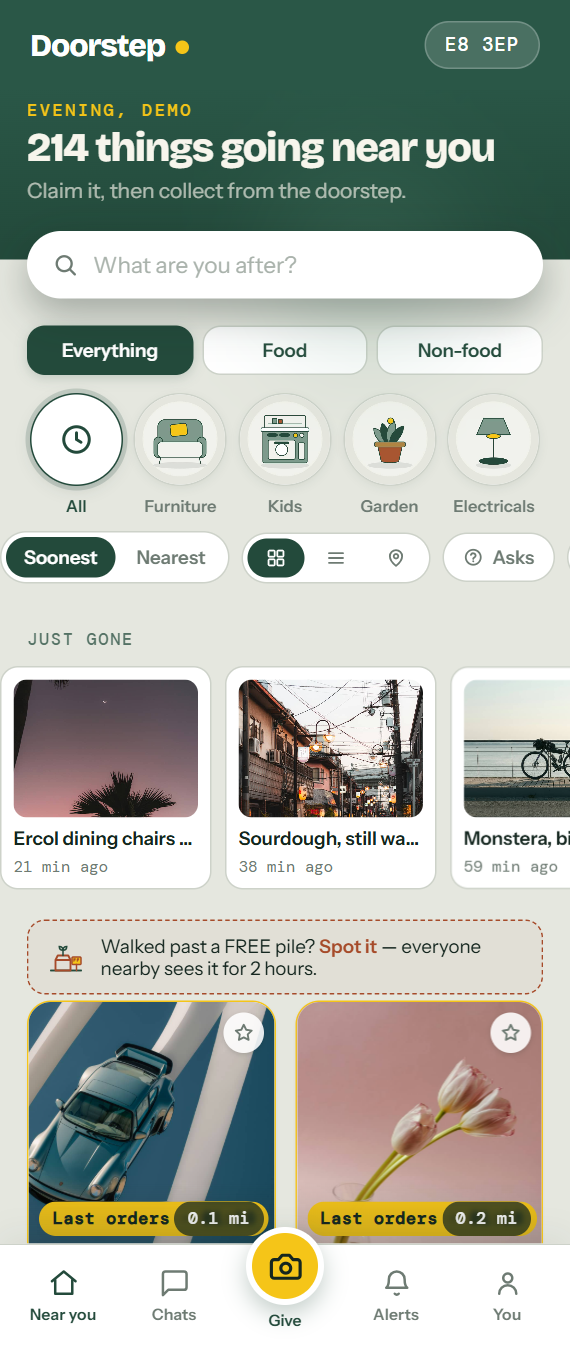
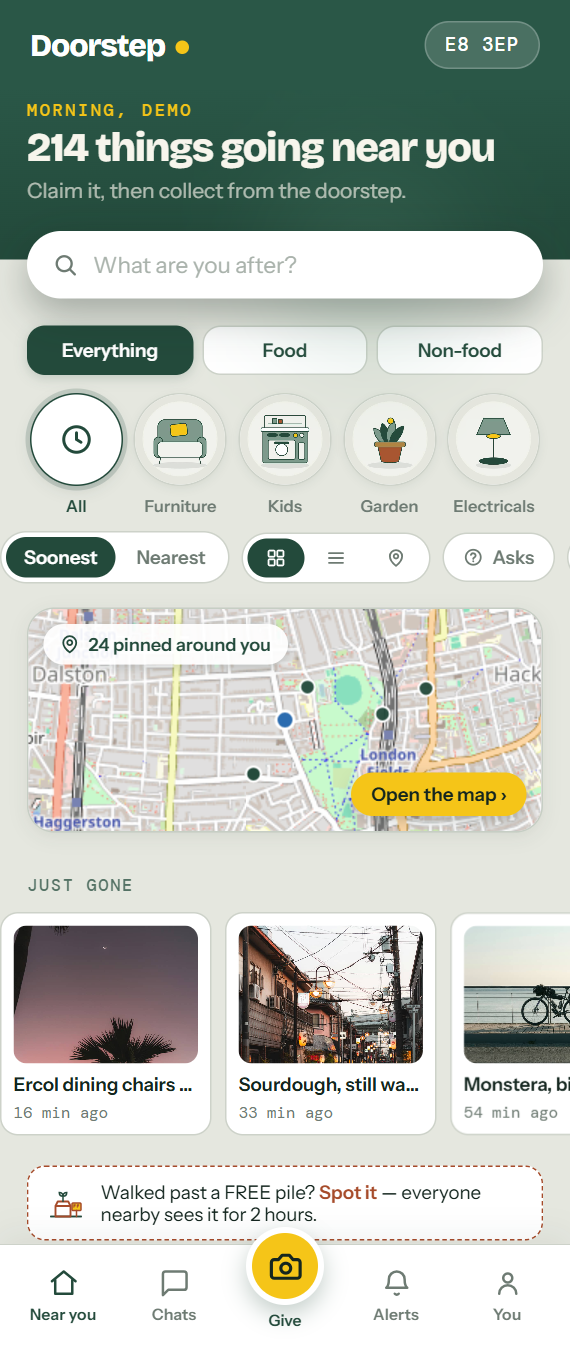
The map returns as a postcard, and the profile finds its colours
Messages leaves the profile — it lives on the bottom bar now, and a
second door to the same room only confuses the house. The remaining rows
each wear their own colour so the eye finds a destination before the
words are read: green for your things, rose for wishing, gold for the
radar, blue for the reckoning.

And the front page gets the neighbourhood back: a postcard of the real
map — live tiles, live pins, green for offers, brick for asks, blue for
you — with its hands tied. No panning, no zooming, no pointer at all; it
scrolls like a picture and opens like a door, with the pin count riding
one corner and "Open the map" in signal yellow riding the other.

76 tests pass, 18 of 18 screen checks clean, synced to both platforms.

diff --git a/src/App.jsx b/src/App.jsx
@@ -812,6 +812,7 @@ export default function Doorstep() {
   const [autospec, setAutospec] = useState({ configured: false, busy: false, done: false, candidates: [] });
   const fileRef = useRef(null);
   const mapRef = useRef(null);
+  const miniMapRef = useRef(null);
   const mapObj = useRef(null);
 
   useClock();
@@ -1176,6 +1177,41 @@ export default function Doorstep() {
     const t = setTimeout(() => setToast(null), 4200);
     return () => clearTimeout(t);
   }, [toast]);
+
+  /* A postcard of the neighbourhood on the front page: the real map, pins
+     and all, with its hands tied — no panning, no zooming, no pointer at
+     all — so it scrolls like a picture and opens like a door. */
+  useEffect(() => {
+    if (screen !== "home" || !miniMapRef.current) return;
+    const centre = user && user.lat != null ? [user.lat, user.lng] : [51.5416, -0.0575];
+    const m = L.map(miniMapRef.current, {
+      zoomControl: false,
+      attributionControl: false,
+      dragging: false,
+      touchZoom: false,
+      scrollWheelZoom: false,
+      doubleClickZoom: false,
+      boxZoom: false,
+      keyboard: false,
+      tapHold: false,
+    });
+    m.setView(centre, 14);
+    L.tileLayer("https://{s}.tile.openstreetmap.org/{z}/{x}/{y}.png", { maxZoom: 19 }).addTo(m);
+    for (const it of items.slice(0, 40)) {
+      if (it.lat == null) continue;
+      L.circleMarker([it.lat, it.lng], {
+        radius: 5,
+        color: "#FFFFFF",
+        weight: 1.5,
+        fillColor: it.wanted ? "#A64B2A" : "#234A3B",
+        fillOpacity: 0.95,
+      }).addTo(m);
+    }
+    if (user && user.lat != null) {
+      L.circleMarker(centre, { radius: 6, color: "#FFFFFF", weight: 2, fillColor: "#2B6CB0", fillOpacity: 1 }).addTo(m);
+    }
+    return () => m.remove();
+  }, [screen, items.length, user]);
 
   /* ---- map lifecycle ---- */
 
@@ -3891,18 +3927,8 @@ export default function Doorstep() {
               </div>
 
               <div className="profile-links">
-                <button onClick={() => setScreen("chats")}>
-                  <span className="link-ic" aria-hidden="true">
-                    <svg width="17" height="17" viewBox="0 0 24 24" fill="none" stroke="currentColor" strokeWidth="2" strokeLinecap="round" strokeLinejoin="round"><path d="M21 15a2 2 0 0 1-2 2H7l-4 4V5a2 2 0 0 1 2-2h14a2 2 0 0 1 2 2z" /></svg>
-                  </span>
-                  <span className="link-copy">
-                    Messages
-                    <span>Arrange handovers with your neighbours</span>
-                  </span>
-                  {chatUnread > 0 ? <span className="link-badge">{chatUnread > 9 ? "9+" : chatUnread}</span> : <span className="link-go" aria-hidden="true">›</span>}
-                </button>
                 <button onClick={() => { setTab("toCollect"); setScreen("mine"); }}>
-                  <span className="link-ic" aria-hidden="true">
+                  <span className="link-ic green" aria-hidden="true">
                     <svg width="17" height="17" viewBox="0 0 24 24" fill="none" stroke="currentColor" strokeWidth="2" strokeLinecap="round" strokeLinejoin="round"><path d="M5 8h14l-1.2 11.2a2 2 0 0 1-2 1.8H8.2a2 2 0 0 1-2-1.8z" /><path d="M9 8V6a3 3 0 0 1 6 0v2" /></svg>
                   </span>
                   <span className="link-copy">
@@ -3912,7 +3938,7 @@ export default function Doorstep() {
                   <span className="link-go" aria-hidden="true">›</span>
                 </button>
                 <button onClick={() => setScreen("wishes")}>
-                  <span className="link-ic" aria-hidden="true">
+                  <span className="link-ic rose" aria-hidden="true">
                     <svg width="17" height="17" viewBox="0 0 24 24" fill="none" stroke="currentColor" strokeWidth="2" strokeLinecap="round" strokeLinejoin="round"><path d="M12 20.5S3.5 15 3.5 9.2A4.2 4.2 0 0 1 12 7a4.2 4.2 0 0 1 8.5 2.2c0 5.8-8.5 11.3-8.5 11.3Z" /></svg>
                   </span>
                   <span className="link-copy">
@@ -3922,7 +3948,7 @@ export default function Doorstep() {
                   <span className="link-go" aria-hidden="true">›</span>
                 </button>
                 <button onClick={() => setScreen("radar")}>
-                  <span className="link-ic" aria-hidden="true">
+                  <span className="link-ic gold" aria-hidden="true">
                     <svg width="17" height="17" viewBox="0 0 24 24" fill="none" stroke="currentColor" strokeWidth="2" strokeLinecap="round" strokeLinejoin="round"><circle cx="12" cy="12" r="2" /><path d="M16.2 7.8a6 6 0 0 1 0 8.4M7.8 16.2a6 6 0 0 1 0-8.4M19 5a10 10 0 0 1 0 14M5 19A10 10 0 0 1 5 5" /></svg>
                   </span>
                   <span className="link-copy">
@@ -3932,7 +3958,7 @@ export default function Doorstep() {
                   <span className="link-go" aria-hidden="true">›</span>
                 </button>
                 <button onClick={() => setScreen("impact")}>
-                  <span className="link-ic" aria-hidden="true">
+                  <span className="link-ic blue" aria-hidden="true">
                     <svg width="17" height="17" viewBox="0 0 24 24" fill="none" stroke="currentColor" strokeWidth="2" strokeLinecap="round" strokeLinejoin="round"><path d="M12 3v18M5.5 12.5L12 19l6.5-6.5" /></svg>
                   </span>
                   <span className="link-copy">
@@ -4958,6 +4984,17 @@ export default function Doorstep() {
                   </button>
                 )}
               </div>
+            )}
+
+            {!q.trim() && (
+              <button className="map-peek" onClick={() => setScreen("map")} aria-label="Open the map">
+                <div className="map-peek-canvas" ref={miniMapRef} aria-hidden="true" />
+                <span className="map-peek-chip">
+                  <svg width="13" height="13" viewBox="0 0 24 24" fill="none" stroke="currentColor" strokeWidth="2.2" strokeLinecap="round" strokeLinejoin="round" aria-hidden="true"><path d="M20 10c0 6-8 12-8 12S4 16 4 10a8 8 0 1 1 16 0z" /><circle cx="12" cy="10" r="3" /></svg>
+                  {items.filter((i) => i.lat != null).length} pinned around you
+                </span>
+                <span className="map-peek-open">Open the map ›</span>
+              </button>
             )}
 
             {recent.length > 0 && !q.trim() && (

diff --git a/src/styles.css b/src/styles.css
@@ -4694,3 +4694,74 @@ input.range:focus-visible { outline: 2px solid var(--railing); outline-offset: 4
     scroll-behavior: auto !important;
   }
 }
+
+/* ---------- coloured profile rows, and the map postcard ---------- */
+
+/* each row wears its own colour, so the eye can find a destination before
+   the words are read: green for your things, rose for wishing, gold for
+   the radar, blue for the reckoning */
+.link-ic.green { background: rgba(35, 74, 59, 0.12); color: var(--railing); }
+.link-ic.rose { background: rgba(166, 75, 42, 0.14); color: var(--brick); }
+.link-ic.gold { background: rgba(245, 197, 24, 0.24); color: #8a6d00; }
+.link-ic.blue { background: rgba(43, 108, 176, 0.14); color: #2B6CB0; }
+
+/* the neighbourhood as a postcard: real tiles, real pins, hands tied */
+.map-peek {
+  position: relative;
+  display: block;
+  width: 100%;
+  height: 150px;
+  border: 1px solid rgba(35, 74, 59, 0.16);
+  border-radius: 18px;
+  overflow: hidden;
+  padding: 0;
+  margin: 0 0 16px;
+  cursor: pointer;
+  background: var(--render);
+  box-shadow: 0 3px 12px rgba(20, 38, 31, 0.08);
+  transition: transform var(--quick) var(--settle), box-shadow var(--quick) var(--settle);
+}
+.map-peek:hover { transform: translateY(-2px); box-shadow: 0 8px 20px rgba(20, 38, 31, 0.14); }
+.map-peek:active { transform: scale(0.99); }
+
+.map-peek-canvas {
+  position: absolute;
+  inset: 0;
+  /* the picture never argues with a finger — the card takes the tap */
+  pointer-events: none;
+}
+
+.map-peek-chip {
+  position: absolute;
+  top: 10px;
+  left: 10px;
+  z-index: 800; /* above every Leaflet pane */
+  display: inline-flex;
+  align-items: center;
+  gap: 6px;
+  font-family: var(--body);
+  font-size: 12px;
+  font-weight: 700;
+  color: var(--railing);
+  background: rgba(255, 255, 255, 0.92);
+  border-radius: 999px;
+  padding: 6px 11px;
+  box-shadow: 0 2px 8px rgba(20, 38, 31, 0.18);
+  pointer-events: none;
+}
+
+.map-peek-open {
+  position: absolute;
+  bottom: 10px;
+  right: 10px;
+  z-index: 800;
+  font-family: var(--body);
+  font-size: 12.5px;
+  font-weight: 700;
+  color: var(--ink);
+  background: var(--signal);
+  border-radius: 999px;
+  padding: 7px 13px;
+  box-shadow: 0 3px 10px rgba(20, 38, 31, 0.22);
+  pointer-events: none;
+}
